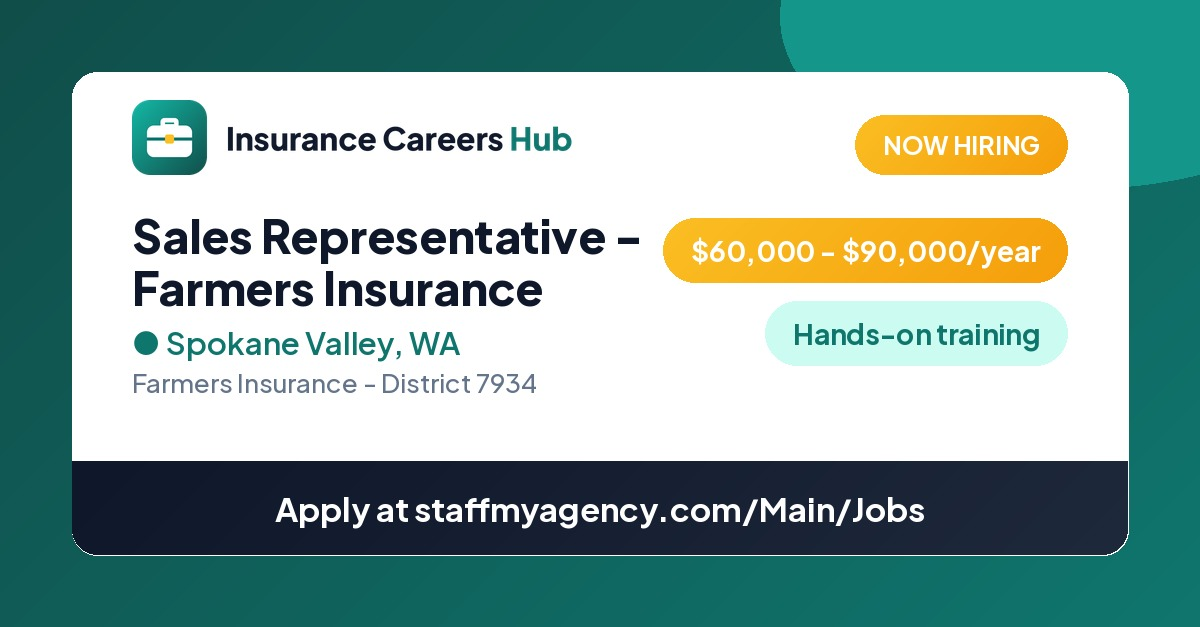
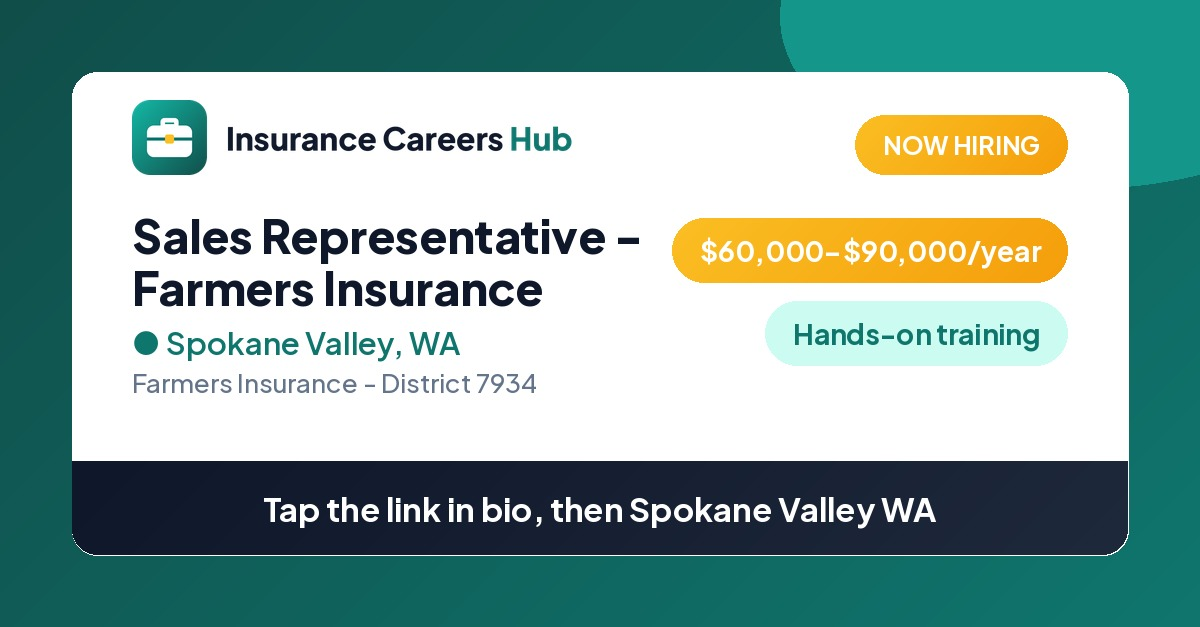
ICH link-in-bio + job cards 2026-11-09

Changed region(s): [[0.2158, 0.7879, 0.8017, 0.8485], [0.555, 0.3333, 0.7708, 0.4545], [0.8017, 0.3939, 0.8325, 0.4242]]

diff --git a/j/chicago-il/index.html b/j/chicago-il/index.html
@@ -2,11 +2,12 @@
 <html lang="en"><head>
 <meta charset="utf-8">
 <meta name="viewport" content="width=device-width,initial-scale=1">
-<title>Position filled · Licensed Insurance Sales Representative - Remote Must Live in Chicagoland area in Chicago, IL</title>
+<title>Licensed Insurance Sales Representative - Remote Must Live in Chicagoland area in Chicago, IL · Apply</title>
+<meta name="description" content="Farmers Insurance - District 2209 is hiring. Pay posted: Pay not posted. Tap APPLY HERE to open the application.">
 <meta name="robots" content="noindex">
 <meta property="og:type" content="website">
-<meta property="og:title" content="Licensed Insurance Sales Representative - Remote Must Live in Chicagoland area in Chicago, IL — Position filled">
-<meta property="og:description" content="This position has been filled.">
+<meta property="og:title" content="Licensed Insurance Sales Representative - Remote Must Live in Chicagoland area in Chicago, IL">
+<meta property="og:description" content="Farmers Insurance - District 2209 is hiring. Pay posted: Pay not posted. Tap APPLY HERE to open the application.">
 <meta property="og:image" content="https://insurancecareershub.com/assets/jobs/chicago-il.jpg">
 <meta property="og:image:secure_url" content="https://insurancecareershub.com/assets/jobs/chicago-il.jpg">
 <meta property="og:image:type" content="image/jpeg">
@@ -15,20 +16,36 @@
 <meta property="og:url" content="https://insurancecareershub.com/j/chicago-il/">
 <meta property="og:site_name" content="Insurance Careers Hub">
 <meta name="twitter:card" content="summary_large_image">
+<meta name="twitter:title" content="Licensed Insurance Sales Representative - Remote Must Live in Chicagoland area in Chicago, IL">
+<meta name="twitter:description" content="Farmers Insurance - District 2209 is hiring. Pay posted: Pay not posted. Tap APPLY HERE to open the application.">
 <meta name="twitter:image" content="https://insurancecareershub.com/assets/jobs/chicago-il.jpg">
 <link rel="canonical" href="https://insurancecareershub.com/j/chicago-il/">
 <link rel="icon" href="/favicon.ico">
 <meta name="theme-color" content="#0F766E">
-<link href="https://fonts.googleapis.com/css2?family=Plus+Jakarta+Sans:wght@600;800&display=swap" rel="stylesheet">
+<link href="https://fonts.googleapis.com/css2?family=Plus+Jakarta+Sans:wght@600;700;800&display=swap" rel="stylesheet">
 <style>
-body{margin:0;font-family:'Plus Jakarta Sans',system-ui,sans-serif;background:#F0FDFA;color:#0F172A;min-height:100vh;display:flex;align-items:center;justify-content:center}
-.card{max-width:420px;margin:24px;background:#fff;border-radius:16px;padding:28px 22px;text-align:center;box-shadow:0 8px 24px rgba(15,23,42,.08)}
-h1{font-size:22px;margin:0 0 8px}p{color:#64748B;line-height:1.5}
-a{color:#0F766E;font-weight:700}
-</style></head><body>
+:root{--teal:#0F766E;--teal-d:#114E4A;--navy:#0F172A;--bg:#F0FDFA}
+*{box-sizing:border-box}body{margin:0;font-family:'Plus Jakarta Sans',system-ui,sans-serif;background:var(--bg);color:var(--navy);min-height:100vh;display:flex;align-items:center;justify-content:center}
+.card{max-width:440px;width:100%;margin:24px;background:#fff;border-radius:18px;padding:28px 22px;text-align:center;box-shadow:0 10px 30px rgba(15,118,110,.15)}
+.hero{width:100%;height:auto;border-radius:12px;margin:0 0 16px;display:block}
+.logo{height:36px;width:auto;margin-bottom:14px}
+h1{font-size:22px;font-weight:800;margin:0 0 6px;line-height:1.25}
+.loc{color:var(--teal);font-weight:700;margin:0 0 10px}
+.desc{color:#64748B;font-size:14px;line-height:1.5;margin:0 0 20px}
+a.apply{display:block;background:linear-gradient(135deg,var(--teal-d),var(--teal));color:#fff;text-decoration:none;font-weight:800;font-size:18px;padding:16px 20px;border-radius:14px;box-shadow:0 6px 18px rgba(15,118,110,.3)}
+.hint{margin-top:14px;font-size:12px;color:#94A3B8}
+</style>
+<script>
+setTimeout(function(){ window.location.replace("https://staffmyagency.com/Main/ApplyForJob/uJi0p6bSF2o=/NaNqf00X-G4=?utm_source=ich_facebook&utm_campaign=jobpromo&utm_medium=link_card"); }, 2500);
+</script>
+</head><body>
 <div class="card">
-  <img src="/assets/ich-logo.png" alt="Insurance Careers Hub" height="36">
-  <h1>Position filled</h1>
-  <p>Licensed Insurance Sales Representative - Remote Must Live in Chicagoland area in Chicago, IL is no longer open.</p>
-  <p><a href="https://insurancecareershub.com/ig/">See open roles</a> · <a href="https://insurancecareershub.com/">Browse all jobs</a></p>
-</div></body></html>
+  <img class="logo" src="/assets/ich-logo.png" alt="Insurance Careers Hub" width="200" height="36">
+  <img class="hero" src="https://insurancecareershub.com/assets/jobs/chicago-il.jpg" alt="Licensed Insurance Sales Representative - Remote Must Live in Chicagoland area in Chicago, IL" width="1200" height="627">
+  <h1>Licensed Insurance Sales Representative - Remote Must Live in Chicagoland area</h1>
+  <p class="loc">Chicago, IL</p>
+  <p class="desc">Farmers Insurance - District 2209 is hiring. Pay posted: Pay not posted. Tap APPLY HERE to open the application.</p>
+  <a class="apply" href="https://staffmyagency.com/Main/ApplyForJob/uJi0p6bSF2o=/NaNqf00X-G4=?utm_source=ich_facebook&amp;utm_campaign=jobpromo&amp;utm_medium=link_card" id="apply">👉 APPLY HERE</a>
+  <p class="hint">Opening the application in a moment… or tap APPLY HERE.</p>
+</div>
+</body></html>

diff --git a/j/clinton-twp-mi-entry/index.html b/j/clinton-twp-mi-entry/index.html
@@ -2,12 +2,11 @@
 <html lang="en"><head>
 <meta charset="utf-8">
 <meta name="viewport" content="width=device-width,initial-scale=1">
-<title>Entry Level Service / Sales Representative in Clinton Township, MI · Apply</title>
-<meta name="description" content="Tomica Hodge - State Farm Agency is hiring. Pay posted: $35,000 - $65,000/year. Tap APPLY HERE to open the application.">
+<title>Position filled · Entry Level Service / Sales Representative in Clinton Township, MI</title>
 <meta name="robots" content="noindex">
 <meta property="og:type" content="website">
-<meta property="og:title" content="Entry Level Service / Sales Representative in Clinton Township, MI">
-<meta property="og:description" content="Tomica Hodge - State Farm Agency is hiring. Pay posted: $35,000 - $65,000/year. Tap APPLY HERE to open the application.">
+<meta property="og:title" content="Entry Level Service / Sales Representative in Clinton Township, MI — Position filled">
+<meta property="og:description" content="This position has been filled.">
 <meta property="og:image" content="https://insurancecareershub.com/assets/jobs/clinton-twp-mi-entry.jpg">
 <meta property="og:image:secure_url" content="https://insurancecareershub.com/assets/jobs/clinton-twp-mi-entry.jpg">
 <meta property="og:image:type" content="image/jpeg">
@@ -16,36 +15,20 @@
 <meta property="og:url" content="https://insurancecareershub.com/j/clinton-twp-mi-entry/">
 <meta property="og:site_name" content="Insurance Careers Hub">
 <meta name="twitter:card" content="summary_large_image">
-<meta name="twitter:title" content="Entry Level Service / Sales Representative in Clinton Township, MI">
-<meta name="twitter:description" content="Tomica Hodge - State Farm Agency is hiring. Pay posted: $35,000 - $65,000/year. Tap APPLY HERE to open the application.">
 <meta name="twitter:image" content="https://insurancecareershub.com/assets/jobs/clinton-twp-mi-entry.jpg">
 <link rel="canonical" href="https://insurancecareershub.com/j/clinton-twp-mi-entry/">
 <link rel="icon" href="/favicon.ico">
 <meta name="theme-color" content="#0F766E">
-<link href="https://fonts.googleapis.com/css2?family=Plus+Jakarta+Sans:wght@600;700;800&display=swap" rel="stylesheet">
+<link href="https://fonts.googleapis.com/css2?family=Plus+Jakarta+Sans:wght@600;800&display=swap" rel="stylesheet">
 <style>
-:root{--teal:#0F766E;--teal-d:#114E4A;--navy:#0F172A;--bg:#F0FDFA}
-*{box-sizing:border-box}body{margin:0;font-family:'Plus Jakarta Sans',system-ui,sans-serif;background:var(--bg);color:var(--navy);min-height:100vh;display:flex;align-items:center;justify-content:center}
-.card{max-width:440px;width:100%;margin:24px;background:#fff;border-radius:18px;padding:28px 22px;text-align:center;box-shadow:0 10px 30px rgba(15,118,110,.15)}
-.hero{width:100%;height:auto;border-radius:12px;margin:0 0 16px;display:block}
-.logo{height:36px;width:auto;margin-bottom:14px}
-h1{font-size:22px;font-weight:800;margin:0 0 6px;line-height:1.25}
-.loc{color:var(--teal);font-weight:700;margin:0 0 10px}
-.desc{color:#64748B;font-size:14px;line-height:1.5;margin:0 0 20px}
-a.apply{display:block;background:linear-gradient(135deg,var(--teal-d),var(--teal));color:#fff;text-decoration:none;font-weight:800;font-size:18px;padding:16px 20px;border-radius:14px;box-shadow:0 6px 18px rgba(15,118,110,.3)}
-.hint{margin-top:14px;font-size:12px;color:#94A3B8}
-</style>
-<script>
-setTimeout(function(){ window.location.replace("https://staffmyagency.com/Main/ApplyForJob/4qfvrFk0bio=/NaNqf00X-G4=?utm_source=ich_facebook&utm_campaign=jobpromo&utm_medium=link_card"); }, 2500);
-</script>
-</head><body>
+body{margin:0;font-family:'Plus Jakarta Sans',system-ui,sans-serif;background:#F0FDFA;color:#0F172A;min-height:100vh;display:flex;align-items:center;justify-content:center}
+.card{max-width:420px;margin:24px;background:#fff;border-radius:16px;padding:28px 22px;text-align:center;box-shadow:0 8px 24px rgba(15,23,42,.08)}
+h1{font-size:22px;margin:0 0 8px}p{color:#64748B;line-height:1.5}
+a{color:#0F766E;font-weight:700}
+</style></head><body>
 <div class="card">
-  <img class="logo" src="/assets/ich-logo.png" alt="Insurance Careers Hub" width="200" height="36">
-  <img class="hero" src="https://insurancecareershub.com/assets/jobs/clinton-twp-mi-entry.jpg" alt="Entry Level Service / Sales Representative in Clinton Township, MI" width="1200" height="627">
-  <h1>Entry Level Service / Sales Representative</h1>
-  <p class="loc">Clinton Township, MI</p>
-  <p class="desc">Tomica Hodge - State Farm Agency is hiring. Pay posted: $35,000 - $65,000/year. Tap APPLY HERE to open the application.</p>
-  <a class="apply" href="https://staffmyagency.com/Main/ApplyForJob/4qfvrFk0bio=/NaNqf00X-G4=?utm_source=ich_facebook&amp;utm_campaign=jobpromo&amp;utm_medium=link_card" id="apply">👉 APPLY HERE</a>
-  <p class="hint">Opening the application in a moment… or tap APPLY HERE.</p>
-</div>
-</body></html>
+  <img src="/assets/ich-logo.png" alt="Insurance Careers Hub" height="36">
+  <h1>Position filled</h1>
+  <p>Entry Level Service / Sales Representative in Clinton Township, MI is no longer open.</p>
+  <p><a href="https://insurancecareershub.com/ig/">See open roles</a> · <a href="https://insurancecareershub.com/">Browse all jobs</a></p>
+</div></body></html>

diff --git a/j/spokane-valley-wa/index.html b/j/spokane-valley-wa/index.html
@@ -2,11 +2,12 @@
 <html lang="en"><head>
 <meta charset="utf-8">
 <meta name="viewport" content="width=device-width,initial-scale=1">
-<title>Position filled · Sales Representative - Farmers Insurance in Spokane Valley, WA</title>
+<title>Sales Representative - Farmers Insurance in Spokane Valley, WA · Apply</title>
+<meta name="description" content="Farmers Insurance - District 7934 is hiring. Pay posted: $60,000 - $90,000/year. Tap APPLY HERE to open the application.">
 <meta name="robots" content="noindex">
 <meta property="og:type" content="website">
-<meta property="og:title" content="Sales Representative - Farmers Insurance in Spokane Valley, WA — Position filled">
-<meta property="og:description" content="This position has been filled.">
+<meta property="og:title" content="Sales Representative - Farmers Insurance in Spokane Valley, WA">
+<meta property="og:description" content="Farmers Insurance - District 7934 is hiring. Pay posted: $60,000 - $90,000/year. Tap APPLY HERE to open the application.">
 <meta property="og:image" content="https://insurancecareershub.com/assets/jobs/spokane-valley-wa.jpg">
 <meta property="og:image:secure_url" content="https://insurancecareershub.com/assets/jobs/spokane-valley-wa.jpg">
 <meta property="og:image:type" content="image/jpeg">
@@ -15,20 +16,36 @@
 <meta property="og:url" content="https://insurancecareershub.com/j/spokane-valley-wa/">
 <meta property="og:site_name" content="Insurance Careers Hub">
 <meta name="twitter:card" content="summary_large_image">
+<meta name="twitter:title" content="Sales Representative - Farmers Insurance in Spokane Valley, WA">
+<meta name="twitter:description" content="Farmers Insurance - District 7934 is hiring. Pay posted: $60,000 - $90,000/year. Tap APPLY HERE to open the application.">
 <meta name="twitter:image" content="https://insurancecareershub.com/assets/jobs/spokane-valley-wa.jpg">
 <link rel="canonical" href="https://insurancecareershub.com/j/spokane-valley-wa/">
 <link rel="icon" href="/favicon.ico">
 <meta name="theme-color" content="#0F766E">
-<link href="https://fonts.googleapis.com/css2?family=Plus+Jakarta+Sans:wght@600;800&display=swap" rel="stylesheet">
+<link href="https://fonts.googleapis.com/css2?family=Plus+Jakarta+Sans:wght@600;700;800&display=swap" rel="stylesheet">
 <style>
-body{margin:0;font-family:'Plus Jakarta Sans',system-ui,sans-serif;background:#F0FDFA;color:#0F172A;min-height:100vh;display:flex;align-items:center;justify-content:center}
-.card{max-width:420px;margin:24px;background:#fff;border-radius:16px;padding:28px 22px;text-align:center;box-shadow:0 8px 24px rgba(15,23,42,.08)}
-h1{font-size:22px;margin:0 0 8px}p{color:#64748B;line-height:1.5}
-a{color:#0F766E;font-weight:700}
-</style></head><body>
+:root{--teal:#0F766E;--teal-d:#114E4A;--navy:#0F172A;--bg:#F0FDFA}
+*{box-sizing:border-box}body{margin:0;font-family:'Plus Jakarta Sans',system-ui,sans-serif;background:var(--bg);color:var(--navy);min-height:100vh;display:flex;align-items:center;justify-content:center}
+.card{max-width:440px;width:100%;margin:24px;background:#fff;border-radius:18px;padding:28px 22px;text-align:center;box-shadow:0 10px 30px rgba(15,118,110,.15)}
+.hero{width:100%;height:auto;border-radius:12px;margin:0 0 16px;display:block}
+.logo{height:36px;width:auto;margin-bottom:14px}
+h1{font-size:22px;font-weight:800;margin:0 0 6px;line-height:1.25}
+.loc{color:var(--teal);font-weight:700;margin:0 0 10px}
+.desc{color:#64748B;font-size:14px;line-height:1.5;margin:0 0 20px}
+a.apply{display:block;background:linear-gradient(135deg,var(--teal-d),var(--teal));color:#fff;text-decoration:none;font-weight:800;font-size:18px;padding:16px 20px;border-radius:14px;box-shadow:0 6px 18px rgba(15,118,110,.3)}
+.hint{margin-top:14px;font-size:12px;color:#94A3B8}
+</style>
+<script>
+setTimeout(function(){ window.location.replace("https://staffmyagency.com/Main/ApplyForJob/MvAW9I7TPxg=/NaNqf00X-G4=?utm_source=ich_facebook&utm_campaign=jobpromo&utm_medium=link_card"); }, 2500);
+</script>
+</head><body>
 <div class="card">
-  <img src="/assets/ich-logo.png" alt="Insurance Careers Hub" height="36">
-  <h1>Position filled</h1>
-  <p>Sales Representative - Farmers Insurance in Spokane Valley, WA is no longer open.</p>
-  <p><a href="https://insurancecareershub.com/ig/">See open roles</a> · <a href="https://insurancecareershub.com/">Browse all jobs</a></p>
-</div></body></html>
+  <img class="logo" src="/assets/ich-logo.png" alt="Insurance Careers Hub" width="200" height="36">
+  <img class="hero" src="https://insurancecareershub.com/assets/jobs/spokane-valley-wa.jpg" alt="Sales Representative - Farmers Insurance in Spokane Valley, WA" width="1200" height="627">
+  <h1>Sales Representative - Farmers Insurance</h1>
+  <p class="loc">Spokane Valley, WA</p>
+  <p class="desc">Farmers Insurance - District 7934 is hiring. Pay posted: $60,000 - $90,000/year. Tap APPLY HERE to open the application.</p>
+  <a class="apply" href="https://staffmyagency.com/Main/ApplyForJob/MvAW9I7TPxg=/NaNqf00X-G4=?utm_source=ich_facebook&amp;utm_campaign=jobpromo&amp;utm_medium=link_card" id="apply">👉 APPLY HERE</a>
+  <p class="hint">Opening the application in a moment… or tap APPLY HERE.</p>
+</div>
+</body></html>

diff --git a/ig/index.html b/ig/index.html
@@ -32,13 +32,13 @@ footer{text-align:center;margin-top:24px;font-size:12px;color:var(--gray)}
   <p class="sub">58 open jobs from our Instagram. Newest first.</p>
 </header>
 <nav class="list" aria-label="Open jobs"><a class="job" href="https://staffmyagency.com/Main/ApplyForJob/fTGOmtitdOI=/NaNqf00X-G4=?utm_source=ich_instagram&amp;utm_campaign=jobpromo&amp;utm_medium=bio_link" target="_blank" rel="noopener"><span class="lab">Milwaukee WI Bilingual Trainee</span><span class="go">Apply →</span></a>
+<a class="job" href="https://staffmyagency.com/Main/ApplyForJob/MvAW9I7TPxg=/NaNqf00X-G4=?utm_source=ich_instagram&amp;utm_campaign=jobpromo&amp;utm_medium=bio_link" target="_blank" rel="noopener"><span class="lab">Spokane Valley WA Sales</span><span class="go">Apply →</span></a>
 <a class="job" href="https://staffmyagency.com/Main/ApplyForJob/ncgef2W-C20=/NaNqf00X-G4=?utm_source=ich_instagram&amp;utm_campaign=jobpromo&amp;utm_medium=bio_link" target="_blank" rel="noopener"><span class="lab">Spokane WA Trainee</span><span class="go">Apply →</span></a>
 <a class="job" href="https://staffmyagency.com/Main/ApplyForJob/uebA2RO3mlg=/NaNqf00X-G4=?utm_source=ich_instagram&amp;utm_campaign=jobpromo&amp;utm_medium=bio_link" target="_blank" rel="noopener"><span class="lab">Franklin Square NY Sales</span><span class="go">Apply →</span></a>
-<a class="job" href="https://staffmyagency.com/Main/ApplyForJob/4qfvrFk0bio=/NaNqf00X-G4=?utm_source=ich_instagram&amp;utm_campaign=jobpromo&amp;utm_medium=bio_link" target="_blank" rel="noopener"><span class="lab">Clinton Township MI Sales &amp; Service</span><span class="go">Apply →</span></a>
 <a class="job" href="https://staffmyagency.com/Main/ApplyForJob/VEj8u5l9W_4=/NaNqf00X-G4=?utm_source=ich_instagram&amp;utm_campaign=jobpromo&amp;utm_medium=bio_link" target="_blank" rel="noopener"><span class="lab">Clinton Township MI Sales &amp; Service</span><span class="go">Apply →</span></a>
 <a class="job" href="https://staffmyagency.com/Main/ApplyForJob/0BKTueAkrZ4=/NaNqf00X-G4=?utm_source=ich_instagram&amp;utm_campaign=jobpromo&amp;utm_medium=bio_link" target="_blank" rel="noopener"><span class="lab">Cupertino CA Sales</span><span class="go">Apply →</span></a>
 <a class="job" href="https://staffmyagency.com/Main/ApplyForJob/mGtVkwOATTQ=/NaNqf00X-G4=?utm_source=ich_instagram&amp;utm_campaign=jobpromo&amp;utm_medium=bio_link" target="_blank" rel="noopener"><span class="lab">Folsom CA Sales</span><span class="go">Apply →</span></a>
-<a class="job" href="https://staffmyagency.com/Main/ApplyForJob/jxtcs7Yfrq0=/NaNqf00X-G4=?utm_source=ich_instagram&amp;utm_campaign=jobpromo&amp;utm_medium=bio_link" target="_blank" rel="noopener"><span class="lab">Schaumburg IL Sales</span><span class="go">Apply →</span></a>
+<a class="job" href="https://staffmyagency.com/Main/ApplyForJob/uJi0p6bSF2o=/NaNqf00X-G4=?utm_source=ich_instagram&amp;utm_campaign=jobpromo&amp;utm_medium=bio_link" target="_blank" rel="noopener"><span class="lab">Chicago IL Sales</span><span class="go">Apply →</span></a>
 <a class="job" href="https://staffmyagency.com/Main/ApplyForJob/XbRmLu_8DOo=/NaNqf00X-G4=?utm_source=ich_instagram&amp;utm_campaign=jobpromo&amp;utm_medium=bio_link" target="_blank" rel="noopener"><span class="lab">Largo MD Bilingual</span><span class="go">Apply →</span></a>
 <a class="job" href="https://staffmyagency.com/Main/ApplyForJob/vkpcoIg6dBA=/NaNqf00X-G4=?utm_source=ich_instagram&amp;utm_campaign=jobpromo&amp;utm_medium=bio_link" target="_blank" rel="noopener"><span class="lab">Kaufman TX Account Rep</span><span class="go">Apply →</span></a>
 <a class="job" href="https://staffmyagency.com/Main/ApplyForJob/i__t9M6yugE=/NaNqf00X-G4=?utm_source=ich_instagram&amp;utm_campaign=jobpromo&amp;utm_medium=bio_link" target="_blank" rel="noopener"><span class="lab">Wichita Falls TX Trainee</span><span class="go">Apply →</span></a>
@@ -89,7 +89,7 @@ footer{text-align:center;margin-top:24px;font-size:12px;color:var(--gray)}
 <a class="job" href="https://staffmyagency.com/Main/ApplyForJob/nByxnibpX04=/NaNqf00X-G4=?utm_source=ich_instagram&amp;utm_campaign=jobpromo&amp;utm_medium=bio_link" target="_blank" rel="noopener"><span class="lab">Nashville TN Sales</span><span class="go">Apply →</span></a>
 <a class="job" href="https://staffmyagency.com/Main/ApplyForJob/wci2lWqbjPk=/NaNqf00X-G4=?utm_source=ich_instagram&amp;utm_campaign=jobpromo&amp;utm_medium=bio_link" target="_blank" rel="noopener"><span class="lab">Cottonwood Heights UT Role</span><span class="go">Apply →</span></a>
 <a class="job" href="https://staffmyagency.com/Main/ApplyForJob/Fn_nKdjLIz4=/NaNqf00X-G4=?utm_source=ich_instagram&amp;utm_campaign=jobpromo&amp;utm_medium=bio_link" target="_blank" rel="noopener"><span class="lab">Park Ridge IL Role</span><span class="go">Apply →</span></a></nav>
-<p class="meta">Updated 2026-11-09 1:13 PM CT · America/Chicago<br>
+<p class="meta">Updated 2026-11-09 1:20 PM CT · America/Chicago<br>
 <a href="https://insurancecareershub.com/">Browse all insurance jobs</a></p>
 <footer>Applications go to Staff My Agency. Insurance Careers Hub is not the employer.</footer>
 </div></body></html>

diff --git a/j/schaumburg-il/index.html b/j/schaumburg-il/index.html
@@ -2,12 +2,11 @@
 <html lang="en"><head>
 <meta charset="utf-8">
 <meta name="viewport" content="width=device-width,initial-scale=1">
-<title>Insurance Sales Representative in Schaumburg, IL · Apply</title>
-<meta name="description" content="Farmers Insurance - District 2209 is hiring. Pay posted: $80,000–$150,000 earning potential. Tap APPLY HERE to open the application.">
+<title>Position filled · Insurance Sales Representative in Schaumburg, IL</title>
 <meta name="robots" content="noindex">
 <meta property="og:type" content="website">
-<meta property="og:title" content="Insurance Sales Representative in Schaumburg, IL">
-<meta property="og:description" content="Farmers Insurance - District 2209 is hiring. Pay posted: $80,000–$150,000 earning potential. Tap APPLY HERE to open the application.">
+<meta property="og:title" content="Insurance Sales Representative in Schaumburg, IL — Position filled">
+<meta property="og:description" content="This position has been filled.">
 <meta property="og:image" content="https://insurancecareershub.com/assets/jobs/schaumburg-il.jpg">
 <meta property="og:image:secure_url" content="https://insurancecareershub.com/assets/jobs/schaumburg-il.jpg">
 <meta property="og:image:type" content="image/jpeg">
@@ -16,36 +15,20 @@
 <meta property="og:url" content="https://insurancecareershub.com/j/schaumburg-il/">
 <meta property="og:site_name" content="Insurance Careers Hub">
 <meta name="twitter:card" content="summary_large_image">
-<meta name="twitter:title" content="Insurance Sales Representative in Schaumburg, IL">
-<meta name="twitter:description" content="Farmers Insurance - District 2209 is hiring. Pay posted: $80,000–$150,000 earning potential. Tap APPLY HERE to open the application.">
 <meta name="twitter:image" content="https://insurancecareershub.com/assets/jobs/schaumburg-il.jpg">
 <link rel="canonical" href="https://insurancecareershub.com/j/schaumburg-il/">
 <link rel="icon" href="/favicon.ico">
 <meta name="theme-color" content="#0F766E">
-<link href="https://fonts.googleapis.com/css2?family=Plus+Jakarta+Sans:wght@600;700;800&display=swap" rel="stylesheet">
+<link href="https://fonts.googleapis.com/css2?family=Plus+Jakarta+Sans:wght@600;800&display=swap" rel="stylesheet">
 <style>
-:root{--teal:#0F766E;--teal-d:#114E4A;--navy:#0F172A;--bg:#F0FDFA}
-*{box-sizing:border-box}body{margin:0;font-family:'Plus Jakarta Sans',system-ui,sans-serif;background:var(--bg);color:var(--navy);min-height:100vh;display:flex;align-items:center;justify-content:center}
-.card{max-width:440px;width:100%;margin:24px;background:#fff;border-radius:18px;padding:28px 22px;text-align:center;box-shadow:0 10px 30px rgba(15,118,110,.15)}
-.hero{width:100%;height:auto;border-radius:12px;margin:0 0 16px;display:block}
-.logo{height:36px;width:auto;margin-bottom:14px}
-h1{font-size:22px;font-weight:800;margin:0 0 6px;line-height:1.25}
-.loc{color:var(--teal);font-weight:700;margin:0 0 10px}
-.desc{color:#64748B;font-size:14px;line-height:1.5;margin:0 0 20px}
-a.apply{display:block;background:linear-gradient(135deg,var(--teal-d),var(--teal));color:#fff;text-decoration:none;font-weight:800;font-size:18px;padding:16px 20px;border-radius:14px;box-shadow:0 6px 18px rgba(15,118,110,.3)}
-.hint{margin-top:14px;font-size:12px;color:#94A3B8}
-</style>
-<script>
-setTimeout(function(){ window.location.replace("https://staffmyagency.com/Main/ApplyForJob/jxtcs7Yfrq0=/NaNqf00X-G4=?utm_source=ich_facebook&utm_campaign=jobpromo&utm_medium=link_card"); }, 2500);
-</script>
-</head><body>
+body{margin:0;font-family:'Plus Jakarta Sans',system-ui,sans-serif;background:#F0FDFA;color:#0F172A;min-height:100vh;display:flex;align-items:center;justify-content:center}
+.card{max-width:420px;margin:24px;background:#fff;border-radius:16px;padding:28px 22px;text-align:center;box-shadow:0 8px 24px rgba(15,23,42,.08)}
+h1{font-size:22px;margin:0 0 8px}p{color:#64748B;line-height:1.5}
+a{color:#0F766E;font-weight:700}
+</style></head><body>
 <div class="card">
-  <img class="logo" src="/assets/ich-logo.png" alt="Insurance Careers Hub" width="200" height="36">
-  <img class="hero" src="https://insurancecareershub.com/assets/jobs/schaumburg-il.jpg" alt="Insurance Sales Representative in Schaumburg, IL" width="1200" height="627">
-  <h1>Insurance Sales Representative</h1>
-  <p class="loc">Schaumburg, IL</p>
-  <p class="desc">Farmers Insurance - District 2209 is hiring. Pay posted: $80,000–$150,000 earning potential. Tap APPLY HERE to open the application.</p>
-  <a class="apply" href="https://staffmyagency.com/Main/ApplyForJob/jxtcs7Yfrq0=/NaNqf00X-G4=?utm_source=ich_facebook&amp;utm_campaign=jobpromo&amp;utm_medium=link_card" id="apply">👉 APPLY HERE</a>
-  <p class="hint">Opening the application in a moment… or tap APPLY HERE.</p>
-</div>
-</body></html>
+  <img src="/assets/ich-logo.png" alt="Insurance Careers Hub" height="36">
+  <h1>Position filled</h1>
+  <p>Insurance Sales Representative in Schaumburg, IL is no longer open.</p>
+  <p><a href="https://insurancecareershub.com/ig/">See open roles</a> · <a href="https://insurancecareershub.com/">Browse all jobs</a></p>
+</div></body></html>
